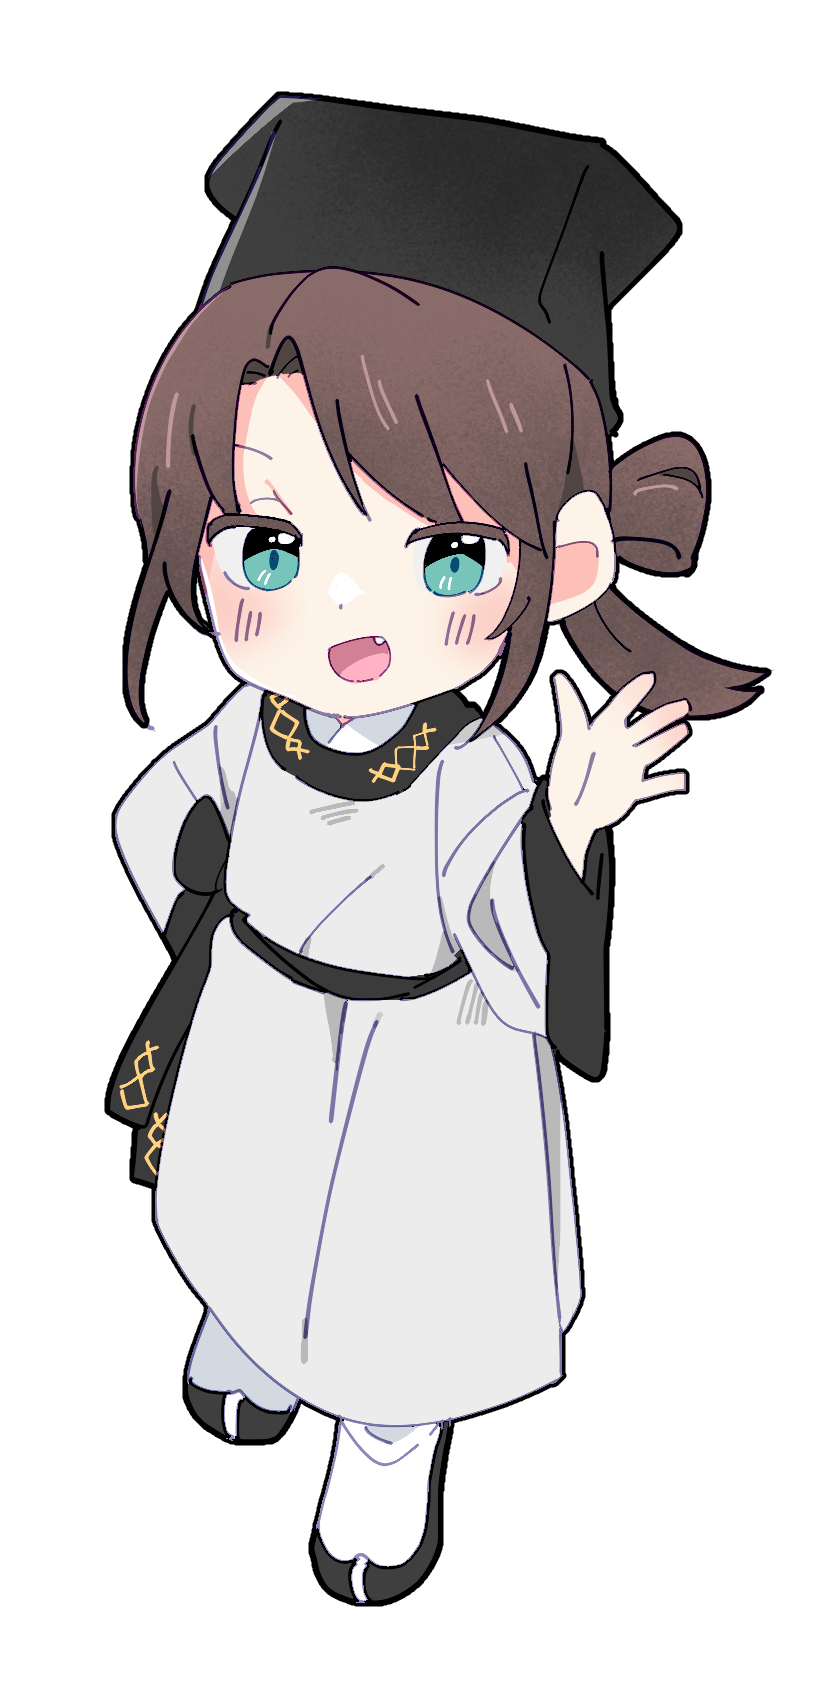
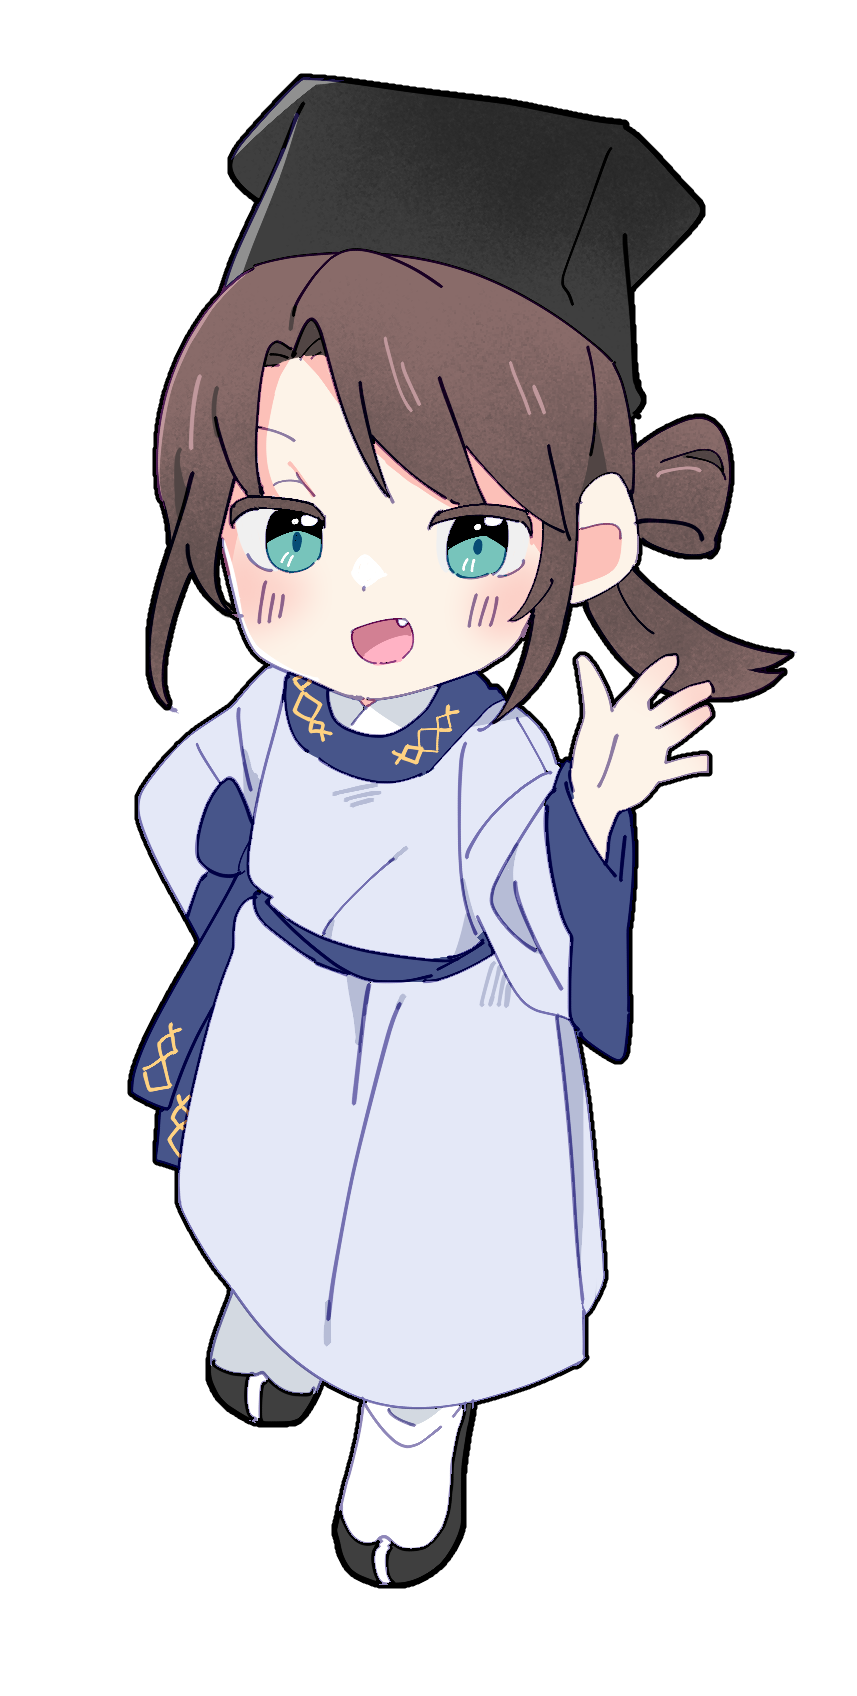
새로운 캐릭터 추가 및 일부 이미지 변경

Changed region(s): [[0.1218, 0.0312, 0.944, 0.9688], [0.5786, 0.2188, 0.6395, 0.25]]

diff --git a/app.vue b/app.vue
@@ -6,7 +6,7 @@
         <meta name="viewport" content="width=device-width, initial-scale=1.0, user-scalable=no">
         <title>OO학 생도들의 나날</title>
         <meta name="summary" content="조선후기, 도성 안에 있던 각 잡학 생도들이 서로 비슷한 교복을 맞춰입고 그중 관심사가 비슷한 사람끼리 교류하고 총학생회까지 있었다면 꽤 재밌었지 않았을까. 하는 상상에서 비롯된 캐릭터-중심으로 아무튼 일상을 이어가는 이야기.">
-        <meta property="og:image" content="/public/png/001.webp" /> 
+        <meta property="og:image" content="/public/png/key_visual.jpg" /> 
         <meta property="og:title" content="OO학 생도들의 나날" /> 
         <meta property="og:description" content="조선후기, 도성 안에 있던 각 잡학 생도들이 서로 비슷한 교복을 맞춰입고 그중 관심사가 비슷한 사람끼리 교류하고 총학생회까지 있었다면 꽤 재밌었지 않았을까. 하는 상상에서 비롯된 캐릭터-중심으로 아무튼 일상을 이어가는 이야기." /> 
       <link rel="stylesheet" href="https://cdn.hugeicons.com/font/hgi-stroke-rounded.css">
@@ -14,13 +14,14 @@
     <NuxtLayout>
       <div id="decorator">
         <div id="top-decorator">
-          <div style="background-color: #154388;"></div>
-          <div style="background-color: #a1d2c9;"></div>
-          <div style="background-color: #bea58a;"></div>
-          <div style="background-color: #79919d;"></div>
-          <div style="background-color: #f09896;"></div>
-          <div style="background-color: #e47b5a;"></div>
-          <div style="background-color: #383838;"></div>
+          <div style="background-color: var(--gwansanggam);"></div>
+          <div style="background-color: var(--jeonigam);"></div>
+          <div style="background-color: var(--sayogwon);"></div>
+          <div style="background-color: var(--yulhakchung);"></div>
+          <div style="background-color: var(--sanhakchung);"></div>
+          <div style="background-color: var(--dohwaseo);"></div>
+          <div style="background-color: var(--jangakwon);"></div>
+          <div style="background-color: var(--seonggyungwan);"></div>
       </div>  
       </div>
       <div id="navbar">
@@ -28,7 +29,7 @@
             <a href="/"><img src="/public/logo.png" /></a>
         </div>
         <div id="navlist">
-            <div><a href="/concept">기획의도</a></div>
+            <div><a href="/concept">소개</a></div>
             <div><a href="/character">나오는사람들</a></div>
             <div><a href="/story">이야기</a></div>
             <div><a href="/store">가게</a></div>
@@ -58,6 +59,22 @@
 
 :root {
   --accent: #79919d;
+  --gwansanggam: #8c7ebf;
+  --gwansanggam-trans: #8c7ebf99;
+  --jeonigam: #a1d2c9;
+  --jeonigam-trans: #a1d2c999;
+  --sayogwon: #bea58a;
+  --sayogwon-trans: #bea58a99;
+  --yulhakchung: #79919d;
+  --yulhakchung-trans: #79919d99;
+  --sanhakchung: #BDD7AE;
+  --sanhakchung-trans: #BDD7AE99;
+  --dohwaseo: #f09896;
+  --dohwaseo-trans: #f0989699;
+  --jangakwon: #e47b5a;
+  --jangakwon-trans: #e47b5a99;
+  --seonggyungwan: #45548b;
+  --seonggyungwan-trans: #45548b99;
 }
 
 body {
@@ -111,6 +128,11 @@ a {
   text-decoration: none;
 }
 
+li {
+  margin-block-start: 1em;
+  margin-block-end: 1em;
+}
+
 #navbar {
   display: flex;
   width: 100%;
@@ -143,7 +165,7 @@ img {
 
 .box-content {
   width: 100%;
-  border: 1px solid #79919d;
+  border: 1px solid var(--accent);
   border-radius: 5px;
   padding: 10px;
   margin-bottom: 10px;
@@ -180,31 +202,35 @@ img {
 }
 
 .gwansanggam, .syg {
-  background-color: #15438899;
+  background-color: var(--gwansanggam-trans);
 }
 
 .jeonigam, .khy {
-  background-color: #a1d2c999;
+  background-color: var(--jeonigam-trans);
 }
 
 .sayogwon, .kih {
-  background-color: #bea58a99;
+  background-color: var(--sayogwon-trans);
 }
 
 .yulhakchung, .ydr {
-  background-color: #79919d99;
+  background-color: var(--yulhakchung-trans);
+}
+
+.sanhakchung, .pys {
+  background-color: var(--sanhakchung-trans);
 }
 
 .dohwaseo, .odk {
-  background-color: #f0989699;
+  background-color: var(--dohwaseo-trans);
 }
 
 .jangakwon, .ls {
-  background-color: #e47b5a99;
+  background-color: var(--jangakwon-trans);
 }
 
 .seonggyungwan, .kyk {
-  background-color: #38383899;
+  background-color: var(--seonggyungwan-trans);
 }
 
 .relative:hover .character-list {

diff --git a/pages/character/[character].vue b/pages/character/[character].vue
@@ -9,6 +9,7 @@
             <div class="relative" style="aspect-ratio: 1 / 1;"><img src="/public/png/khy_crop.png"><a href="/character/khy"><div class="character-list jeonigam"><div>강호영</div><code>전의감</code></div></a></div>
             <div class="relative" style="aspect-ratio: 1 / 1;"><img src="/public/png/kih_crop.png"><a href="/character/kih"><div class="character-list sayogwon"><div>김인호</div><code>사역원</code></div></a></div>
             <div class="relative" style="aspect-ratio: 1 / 1;"><img src="/public/png/ydr_crop.png"><a href="/character/ydr"><div class="character-list yulhakchung"><div>유도리</div><code>율학청</code></div></a></div>
+            <div class="relative" style="aspect-ratio: 1 / 1;"><img src="/public/png/pys_crop.png"><a href="/character/pys"><div class="character-list sanhakchung"><div>박이선</div><code>산학청</code></div></a></div>
             <div class="relative" style="aspect-ratio: 1 / 1;"><img src="/public/png/odk_crop.png"><a href="/character/odk"><div class="character-list dohwaseo"><div>오다경</div><code>도화서</code></div></a></div>
             <div class="relative" style="aspect-ratio: 1 / 1;"><img src="/public/png/ls_crop.png"><a href="/character/ls"><div class="character-list jangakwon"><div>이슬</div><code>장악원</code></div></a></div>
         </div>

diff --git a/pages/character/index.vue b/pages/character/index.vue
@@ -9,6 +9,7 @@
             <div class="relative" style="aspect-ratio: 1 / 1;"><img src="/public/png/khy_crop.png"><a href="/character/khy"><div class="character-list jeonigam"><div>강호영</div><code>전의감</code></div></a></div>
             <div class="relative" style="aspect-ratio: 1 / 1;"><img src="/public/png/kih_crop.png"><a href="/character/kih"><div class="character-list sayogwon"><div>김인호</div><code>사역원</code></div></a></div>
             <div class="relative" style="aspect-ratio: 1 / 1;"><img src="/public/png/ydr_crop.png"><a href="/character/ydr"><div class="character-list yulhakchung"><div>유도리</div><code>율학청</code></div></a></div>
+            <div class="relative" style="aspect-ratio: 1 / 1;"><img src="/public/png/pys_crop.png"><a href="/character/pys"><div class="character-list sanhakchung"><div>박이선</div><code>산학청</code></div></a></div>
             <div class="relative" style="aspect-ratio: 1 / 1;"><img src="/public/png/odk_crop.png"><a href="/character/odk"><div class="character-list dohwaseo"><div>오다경</div><code>도화서</code></div></a></div>
             <div class="relative" style="aspect-ratio: 1 / 1;"><img src="/public/png/ls_crop.png"><a href="/character/ls"><div class="character-list jangakwon"><div>이슬</div><code>장악원</code></div></a></div>
         </div>

diff --git a/pages/concept.vue b/pages/concept.vue
@@ -4,6 +4,16 @@
         <div class="box-content">
             <div v-html=marked.parse(concept)></div>
         </div>
+        <h1>해시태그</h1>
+        <div class="box-content">
+            <div>
+                <p>모든 종류의 단문 SNS에서</p>
+                <ul>
+                    <li>#OO학생도들의나날 - 알파벳 'O' 사용</li>
+                    <li>#학도날 - 간이 해시태그</li>
+                </ul>
+            </div>
+        </div>
     </div>
 </template>
 

diff --git a/pages/index.vue b/pages/index.vue
@@ -1,6 +1,6 @@
 <template>
     <div>
-        <img src="/public/png/001.webp" style="width: 100%; object-fit: cover; aspect-ratio: 16 / 9;">
+        <img src="/public/png/key_visual.jpg" style="width: 100%; object-fit: cover; aspect-ratio: 16 / 9;">
         <div id="container">
             <Example />
         </div>

diff --git a/md/update.md b/md/update.md
@@ -1,1 +1,2 @@
-* 2024.11.27 - 레포지토리 최초 커밋
+* 2024.12.02. - 새로운 캐릭터 추가 및 일부 이미지 변경.
+* 2024.11.27. - 레포지토리 최초 커밋

diff --git a/md/pys.md b/md/pys.md
@@ -1,0 +1,5 @@
+박이선
+朴以善
+산학청
+산학생도
+```
